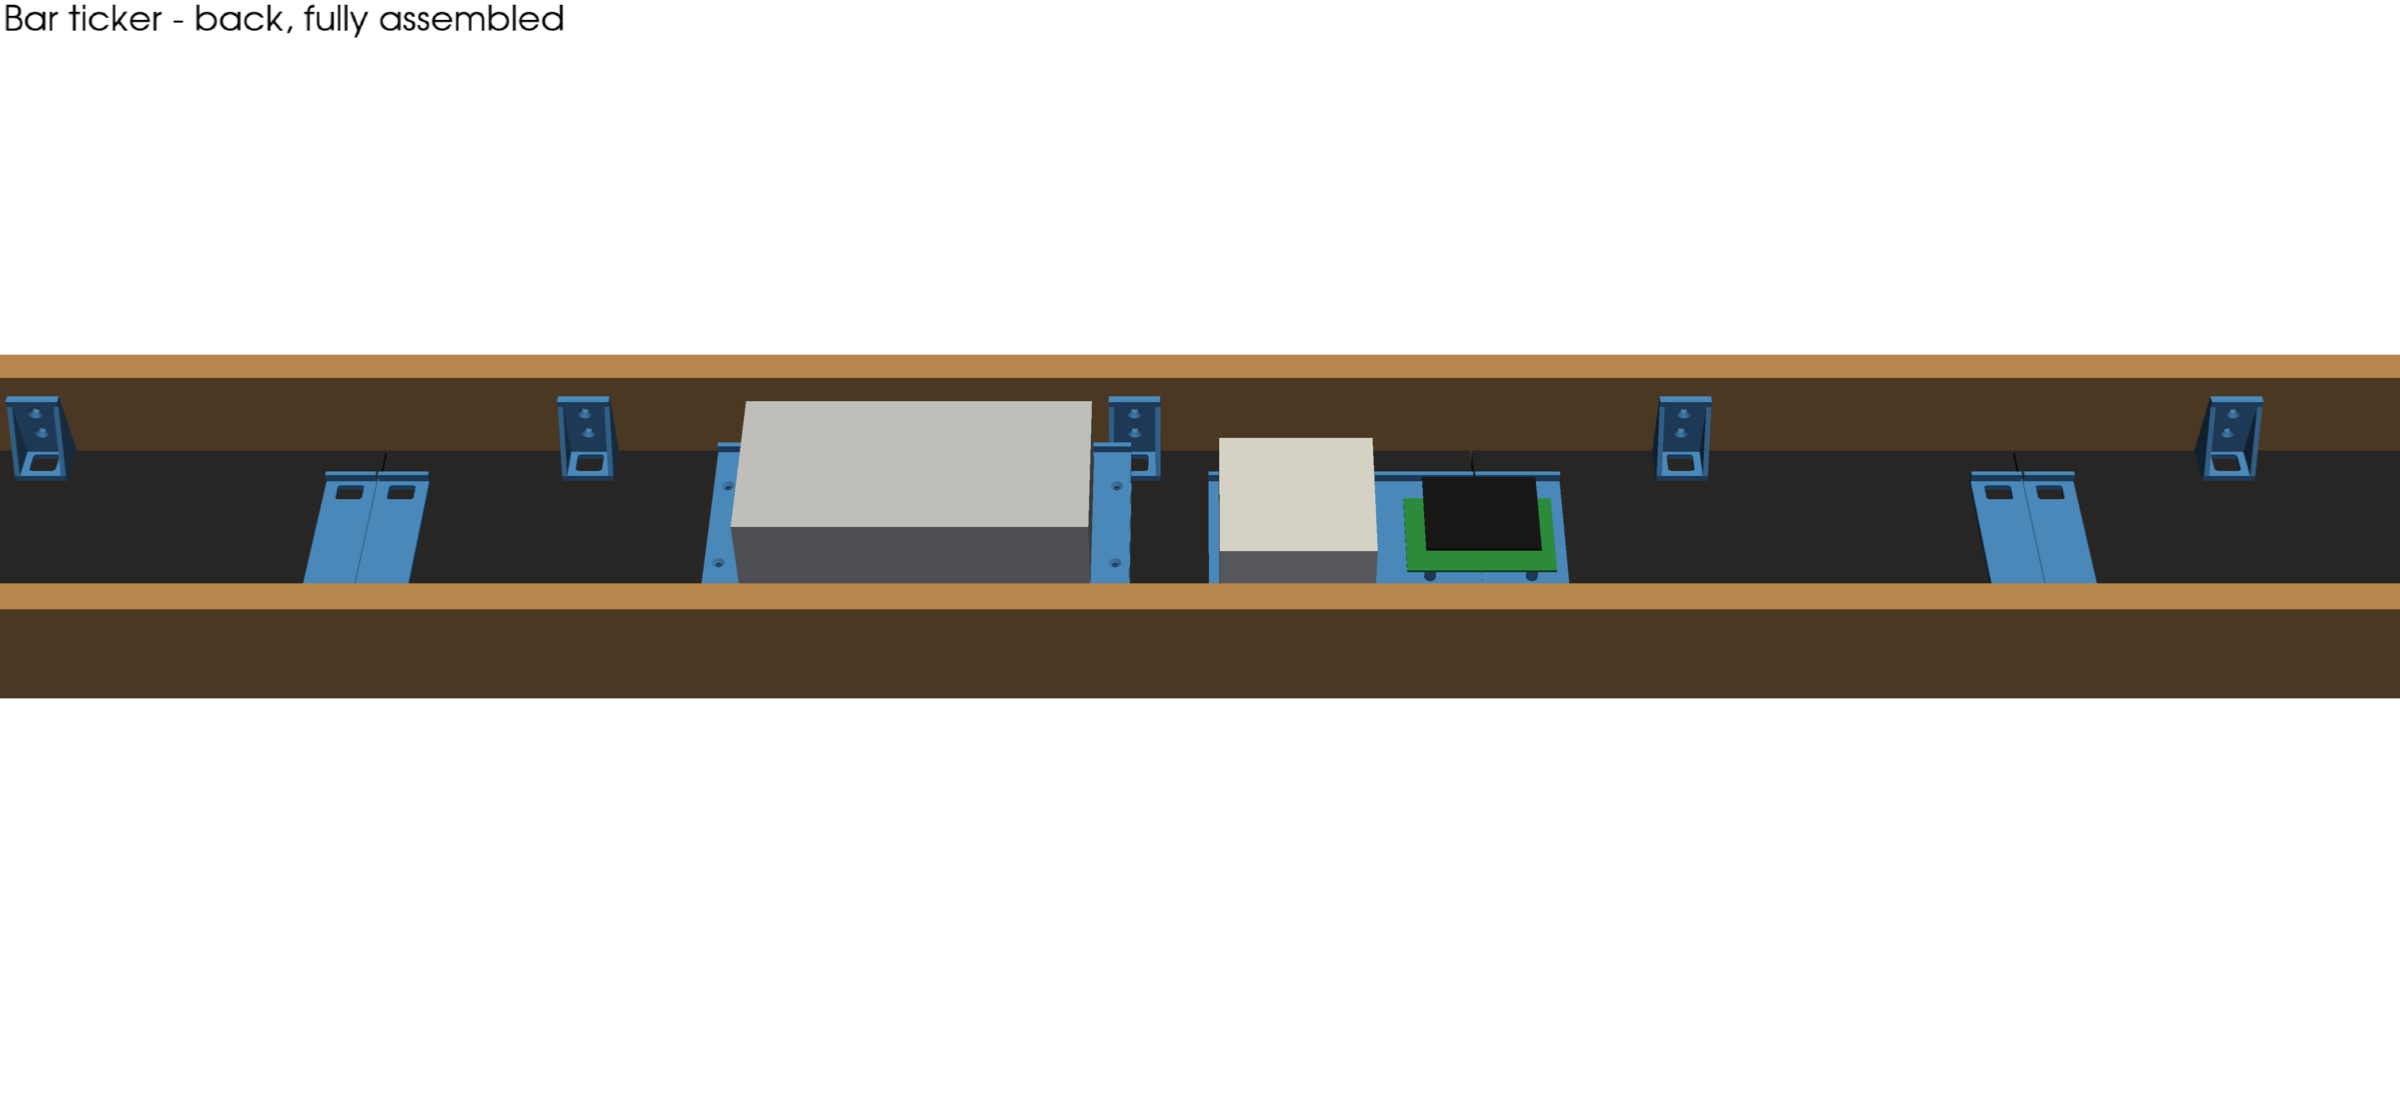
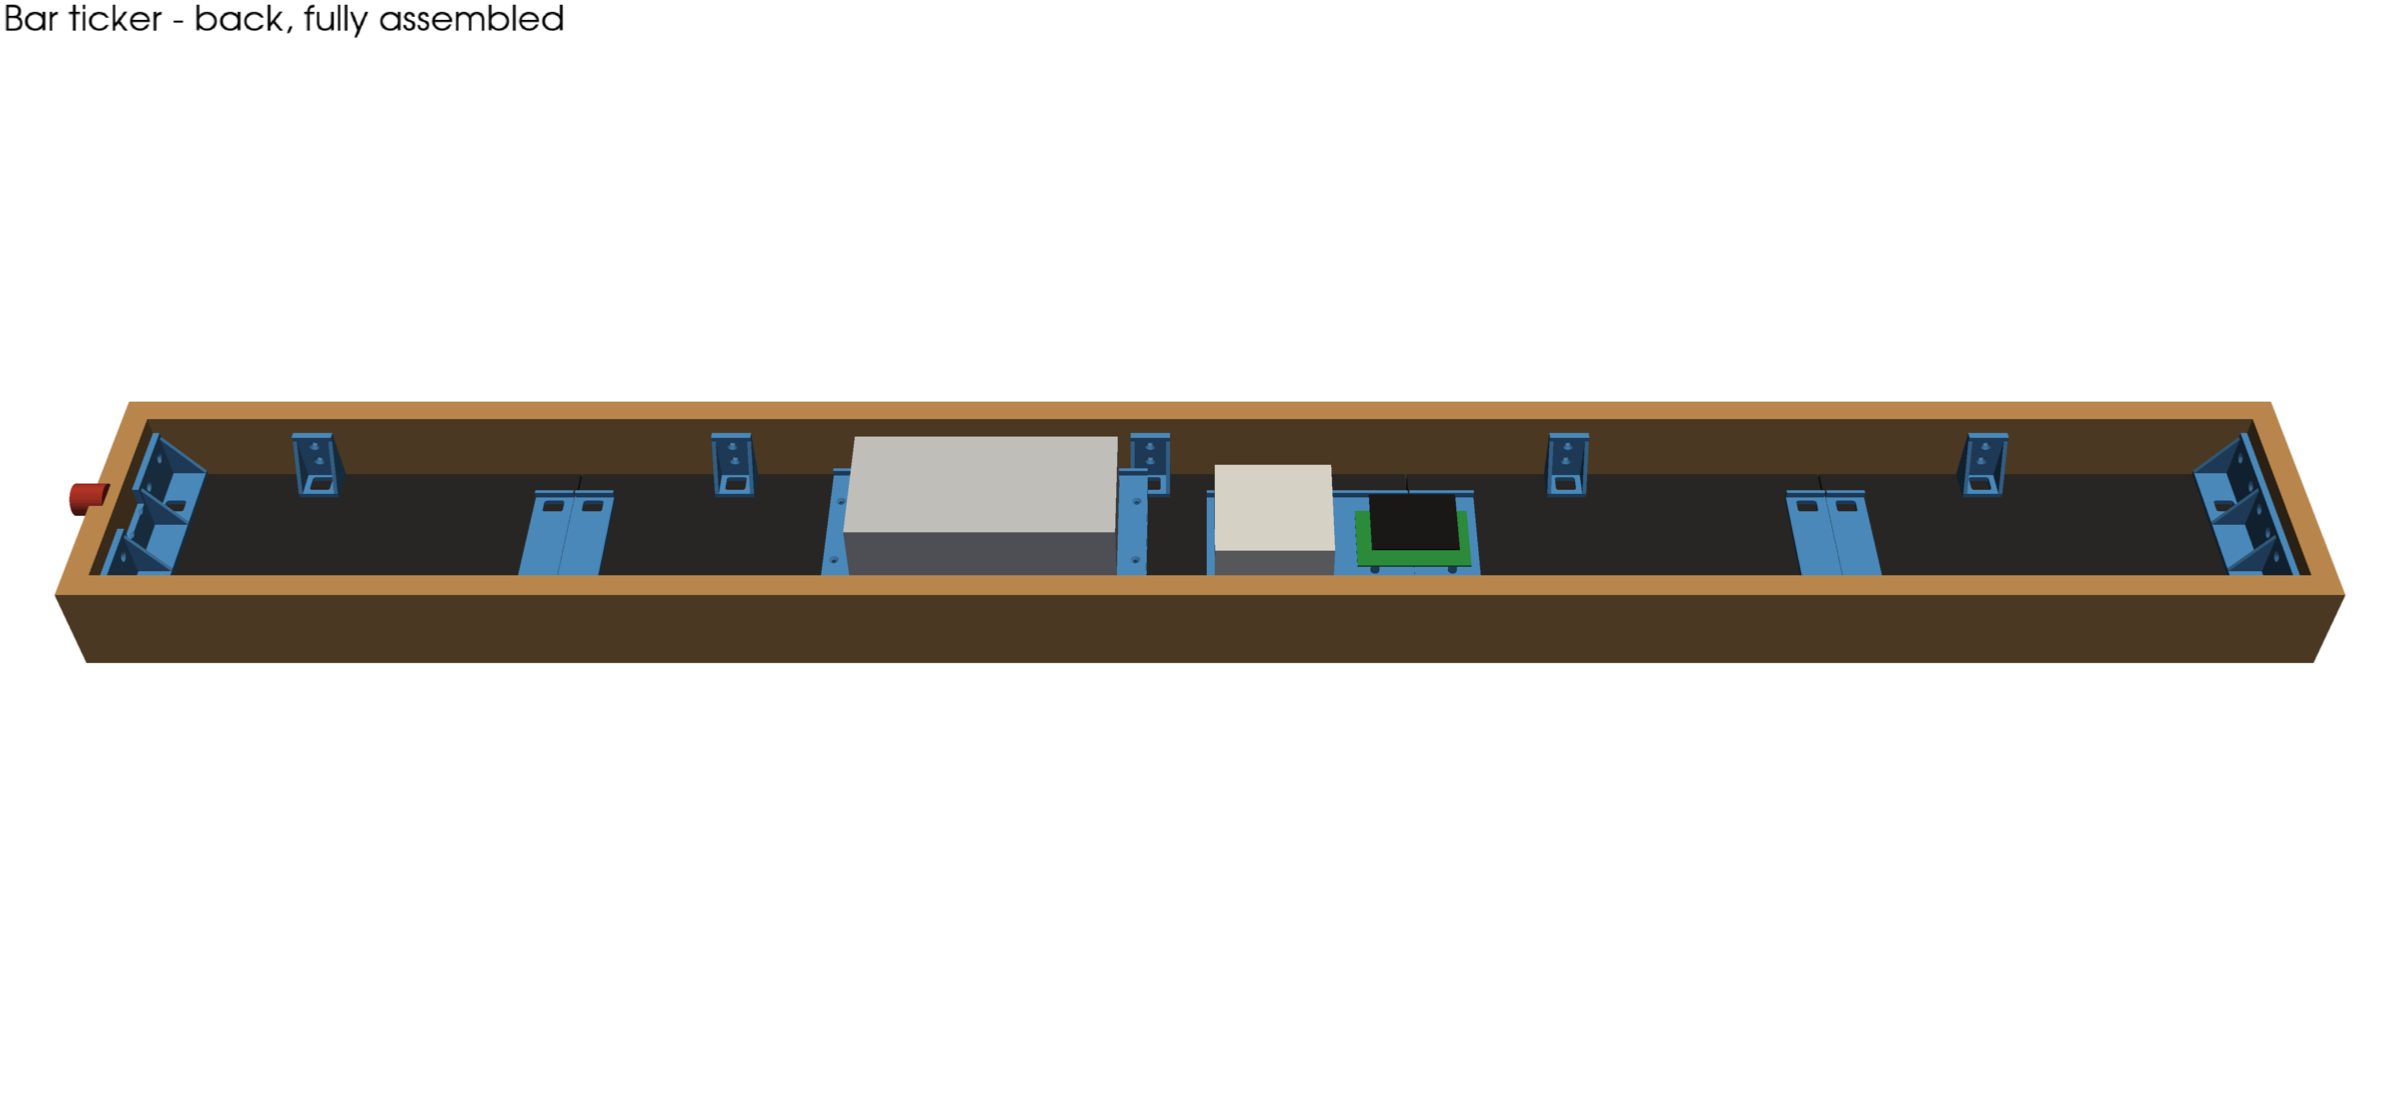
Frame the full render
Claude-Session: https://claude.ai/code/session_01HYeaEYygyfgRPSDkpePvV6

Changed region(s): [[0.0, 0.3091, 1.0, 0.6491]]

diff --git a/hardware/render_assembly.py b/hardware/render_assembly.py
@@ -65,7 +65,7 @@ def scene(wood_opacity=1.0, size=(2400, 1100)):
 # 1) whole ticker from behind
 p = scene()
 p.camera_position = [(W / 2, -1300, 1500), (W / 2, 80, 0), (0, 0, 1)]
-p.camera.zoom(1.7)
+p.camera.zoom(1.3)
 p.add_text("Bar ticker - back, fully assembled", font_size=14, color="black")
 p.screenshot("ticker-render-full.png")
 
